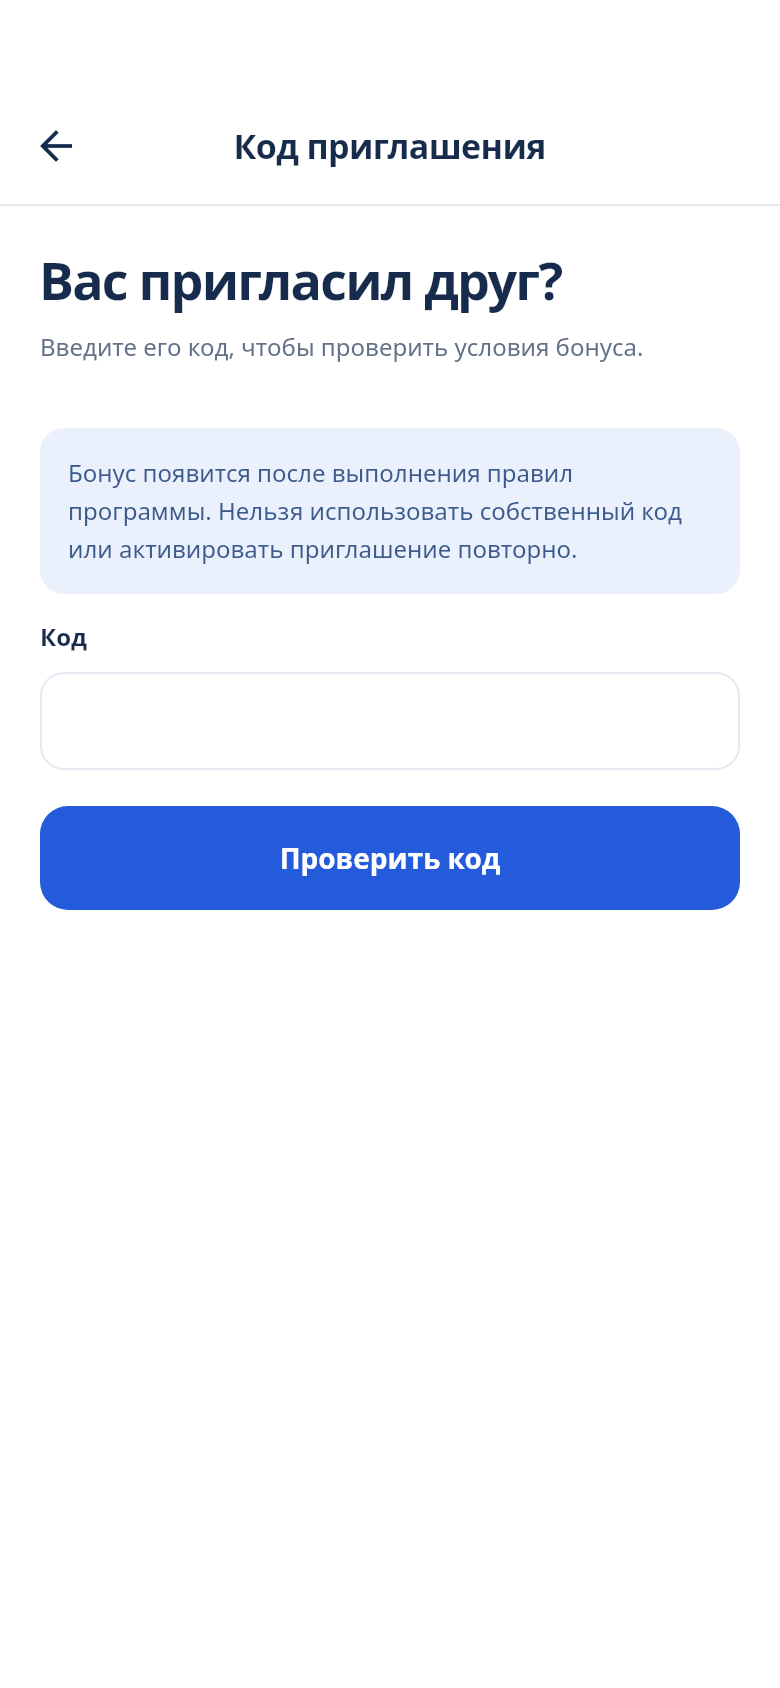
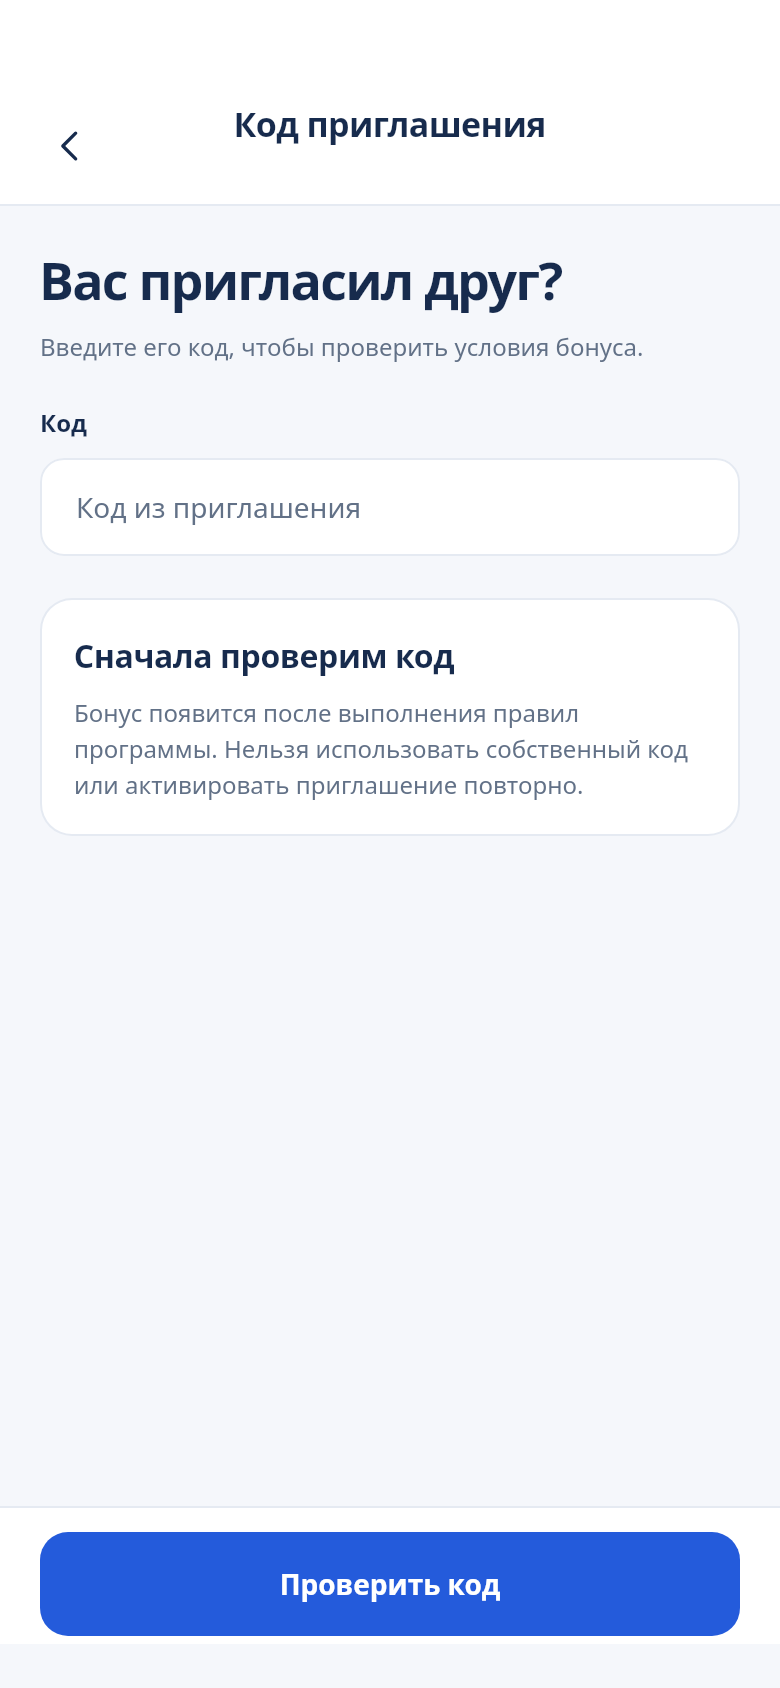
feat: align referral code entry and validate API retry flow

diff --git a/apps/mobile/test/referral_code_test.dart b/apps/mobile/test/referral_code_test.dart
@@ -1,0 +1,103 @@
+import 'dart:async';
+import 'dart:convert';
+import 'package:flutter/material.dart';
+import 'package:flutter_test/flutter_test.dart';
+import 'package:http/http.dart' as http;
+import 'package:http/testing.dart';
+import '../lib/core/api.dart';
+import '../lib/core/theme.dart';
+import '../lib/screens/referral_code.dart';
+
+class _Vault implements SessionVault {
+  Future<String?> read() async => null;
+  Future<void> write(String value) async {}
+  Future<void> clear() async {}
+}
+
+void main() {
+  testWidgets(
+      'invitation validates locally, retains code after rejection and retries once without duplicate requests',
+      (tester) async {
+    tester.view.physicalSize = const Size(390, 844);
+    tester.view.devicePixelRatio = 1;
+    addTearDown(tester.view.resetPhysicalSize);
+    addTearDown(tester.view.resetDevicePixelRatio);
+    final requests = <http.Request>[];
+    var pending = Completer<http.Response>();
+    var accepted = 0;
+    final api = JobaApi('https://isolated.example', vault: _Vault(),
+        transport: MockClient((request) {
+      requests.add(request);
+      return pending.future;
+    }));
+    api.session = {
+      'access_token': 'isolated-referral-session',
+      'user': {'id': 'isolated-user'}
+    };
+    await tester.pumpWidget(MaterialApp(
+        theme: jobaTheme(),
+        home: Builder(
+            builder: (context) => Scaffold(
+                body: TextButton(
+                    onPressed: () => Navigator.push(
+                        context,
+                        MaterialPageRoute<void>(
+                            builder: (_) => ReferralCodeScreen(
+                                api: api, onAccepted: () => accepted++))),
+                    child: const Text('Open'))))));
+    await tester.tap(find.text('Open'));
+    await tester.pumpAndSettle();
+    expect(find.text('Сначала проверим код'), findsOneWidget);
+    await tester.tap(find.text('Проверить код'));
+    await tester.pumpAndSettle();
+    expect(requests, isEmpty);
+    await tester.enterText(
+        find.byType(TextFormField), List.filled(51, 'a').join());
+    await tester.tap(find.text('Проверить код'));
+    await tester.pumpAndSettle();
+    expect(requests, isEmpty);
+    expect(find.text('Код должен содержать не больше 50 символов'),
+        findsOneWidget);
+    await tester.enterText(find.byType(TextFormField), '  invited-code  ');
+    await tester.tap(find.text('Проверить код'));
+    await tester.pump();
+    expect(requests.length, 1);
+    expect(requests.single.url.path, '/api/v1/referrals/attribute');
+    expect(jsonDecode(requests.single.body)['code'], 'invited-code');
+    expect(tester.widget<FilledButton>(find.byType(FilledButton)).onPressed,
+        isNull);
+    pending.complete(http.Response(
+        jsonEncode({
+          'error': {
+            'code': 'ATTRIBUTION_WINDOW_EXPIRED',
+            'message': 'Срок ввода кода после регистрации истёк',
+            'details': {}
+          }
+        }),
+        422,
+        headers: {'content-type': 'application/json; charset=utf-8'}));
+    await tester.pumpAndSettle();
+    expect(accepted, 0);
+    expect(
+        find.text('Срок ввода кода после регистрации истёк'), findsOneWidget);
+    expect(
+        tester
+            .widget<TextFormField>(find.byType(TextFormField))
+            .controller!
+            .text,
+        '  invited-code  ');
+    pending = Completer<http.Response>();
+    await tester.tap(find.text('Проверить код'));
+    await tester.pump();
+    expect(requests.length, 2);
+    pending.complete(http.Response(
+        jsonEncode({
+          'data': {'status': 'pending'}
+        }),
+        200));
+    await tester.pumpAndSettle();
+    expect(accepted, 1);
+    expect(find.byType(ReferralCodeScreen), findsNothing);
+    expect(tester.takeException(), isNull);
+  });
+}

diff --git a/apps/mobile/lib/core/ui_translations.dart b/apps/mobile/lib/core/ui_translations.dart
@@ -4664,4 +4664,49 @@ const uiTranslations = <String, Map<String, String>>{
   },
   "Доступна": {"kk": "Қолжетімді", "sr": "Доступна", "be": "Даступная"},
   "Недоступно": {"kk": "Қолжетімсіз", "sr": "Недоступно", "be": "Недаступна"},
+  "Код из приглашения": {
+    "kk": "Шақыру коды",
+    "sr": "Код из позивнице",
+    "be": "Код з запрашэння"
+  },
+  "Код должен содержать не больше 50 символов": {
+    "kk": "Код 50 таңбадан аспауы керек",
+    "sr": "Код може имати највише 50 знакова",
+    "be": "Код павінен змяшчаць не больш за 50 сімвалаў"
+  },
+  "Сначала проверим код": {
+    "kk": "Алдымен кодты тексереміз",
+    "sr": "Прво ћемо проверити код",
+    "be": "Спачатку праверым код"
+  },
+  "Код приглашения принят": {
+    "kk": "Шақыру коды қабылданды",
+    "sr": "Код позивнице је прихваћен",
+    "be": "Код запрашэння прыняты"
+  },
+  "Срок ввода кода после регистрации истёк": {
+    "kk": "Тіркелгеннен кейін код енгізу мерзімі аяқталды",
+    "sr": "Рок за унос кода након регистрације је истекао",
+    "be": "Тэрмін уводу кода пасля рэгістрацыі скончыўся"
+  },
+  "Пригласивший уже закреплён": {
+    "kk": "Шақырушы бұрын белгіленген",
+    "sr": "Особа која вас је позвала већ је забележена",
+    "be": "Той, хто запрасіў, ужо замацаваны"
+  },
+  "Бюджет новых приглашений исчерпан": {
+    "kk": "Жаңа шақырулар бюджеті таусылды",
+    "sr": "Буџет за нове позивнице је исцрпљен",
+    "be": "Бюджэт новых запрашэнняў вычарпаны"
+  },
+  "Активной реферальной кампании нет": {
+    "kk": "Белсенді шақыру науқаны жоқ",
+    "sr": "Нема активне кампање позивања",
+    "be": "Няма актыўнай рэферальнай кампаніі"
+  },
+  "Код недоступен": {
+    "kk": "Код қолжетімсіз",
+    "sr": "Код није доступан",
+    "be": "Код недаступны"
+  },
 };

diff --git a/apps/mobile/lib/screens/referral_code.dart b/apps/mobile/lib/screens/referral_code.dart
@@ -1,0 +1,54 @@
+import 'package:flutter/material.dart';
+import '../core/api.dart';
+import '../core/l10n.dart';
+import '../core/widgets.dart';
+import '../core/theme.dart';
+import '../core/design_icons.dart';
+
+class ReferralCodeScreen extends StatelessWidget {
+  final JobaApi api;
+  final VoidCallback onAccepted;
+  const ReferralCodeScreen(
+      {required this.api, required this.onAccepted, super.key});
+  @override
+  Widget build(BuildContext context) => Scaffold(
+        backgroundColor: canvas,
+        appBar: AppBar(
+            leadingWidth: 72,
+            leading: IconButton(
+                onPressed: () => Navigator.pop(context),
+                icon: const JobaIcon('back')),
+            title: Transform.translate(
+                offset: const Offset(0, -11),
+                child: const UiText('Код приглашения'))),
+        body: ActionForm(
+          stickySubmit: true,
+          fields: [
+            InputSpec('code', 'Код',
+                minHeight: 52,
+                hint: 'Код из приглашения',
+                validate: (value) => value.trim().length > 50
+                    ? 'Код должен содержать не больше 50 символов'
+                    : null)
+          ],
+          before: const [
+            UiHeading('Вас пригласил друг?',
+                'Введите его код, чтобы проверить условия бонуса.')
+          ],
+          afterFields: [
+            DataCard('Сначала проверим код',
+                translateTitle: true,
+                subtitle: localize(context,
+                    'Бонус появится после выполнения правил программы. Нельзя использовать собственный код или активировать приглашение повторно.'))
+          ],
+          button: 'Проверить код',
+          submit: (values) async {
+            await api.request('/referrals/attribute',
+                method: 'POST', body: {'code': values['code']!.trim()});
+            if (!context.mounted) return;
+            Navigator.pop(context);
+            onAccepted();
+          },
+        ),
+      );
+}

diff --git a/apps/mobile/lib/screens/marketplace.dart b/apps/mobile/lib/screens/marketplace.dart
@@ -1,3 +1,4 @@
+import 'referral_code.dart';
 import 'referral_reward_card.dart';
 import 'referral_hero_decoration.dart';
 import 'referral_terms.dart';
@@ -4620,26 +4621,13 @@ class _MarketplaceState extends State<Marketplace> with WidgetsBindingObserver {
                   })));
   void enterReferralCode() => Navigator.push(
       context,
-      MaterialPageRoute<void>(
-          builder: (c) => Scaffold(
-              appBar: AppBar(title: const UiText('Код приглашения')),
-              body: ActionForm(
-                  fields: const [
-                    InputSpec('code', 'Код')
-                  ],
-                  before: const [
-                    UiHeading('Вас пригласил друг?',
-                        'Введите его код, чтобы проверить условия бонуса.'),
-                    Notice(
-                        'Бонус появится после выполнения правил программы. Нельзя использовать собственный код или активировать приглашение повторно.')
-                  ],
-                  button: 'Проверить код',
-                  submit: (values) async {
-                    await api.request('/referrals/attribute',
-                        method: 'POST', body: {'code': values['code']?.trim()});
-                    if (c.mounted) Navigator.pop(c);
-                    if (mounted) setState(() => revision++);
-                  }))));
+      MaterialPageRoute<void>(builder: (c) => ReferralCodeScreen(
+          api: api, onAccepted: () {
+            if (mounted) {
+              setState(() => revision++);
+              success('Код приглашения принят');
+            }
+          })));
   Widget referralRulesScreen() => page(
       'Условия бонусов',
       loaded(

diff --git a/apps/mobile/lib/core/l10n.dart b/apps/mobile/lib/core/l10n.dart
@@ -50,6 +50,11 @@ String errorText(BuildContext context, Object error) {
         'PDF_SANITIZER_UNAVAILABLE':
             'Проверка файлов недоступна. Попробуйте позже.',
         'PROVIDER_UNAVAILABLE': 'Сервис ещё не подключён.',
+        'ATTRIBUTION_WINDOW_EXPIRED': 'Срок ввода кода после регистрации истёк',
+        'ATTRIBUTION_ALREADY_SET': 'Пригласивший уже закреплён',
+        'REFERRAL_BUDGET_EXHAUSTED': 'Бюджет новых приглашений исчерпан',
+        'CAMPAIGN_UNAVAILABLE': 'Активной реферальной кампании нет',
+        'REFERRAL_INELIGIBLE': 'Код недоступен',
         'POLICY_REJECTED': 'Действие не разрешено действующими правилами.',
       }[error.code] ??
       'Не удалось выполнить запрос';

diff --git a/docs/mobile-referral-terms-update.md b/docs/mobile-referral-terms-update.md
@@ -39,3 +39,13 @@
 Добавлены widget-сценарии: истечение на открытом экране, проверка при resumed, блокировка повторной отправки, отказ и повторная активация, использованная награда и длинный снимок на ширине 320 с масштабом текста 1.5. Добавлены переводы статусов на существующие языки kk/sr/be. Визуальная приёмка всех состояний остаётся открытой.
 
 Проверки: полный мобильный набор — 87 успешно, 2 пропущены. Итоговые 3 сценария карточки с рабочими Noto/jobaTheme и сохранением снимков прошли; анализ — 0 замечаний. Диагностические снимки изолированных карточек: `design/review/mobile/reward-states/{available,expired,redeemed,narrow-long}.png`. Это дополнительные свидетельства, не новые принятые кадры реестра 187. На сервер не развёрнуто.
+
+## Ввод кода S37.redeem
+
+Выделен `ReferralCodeScreen`: заголовок по S37, поле кода, отдельная карточка «Сначала проверим код» под полем, закреплённая нижняя кнопка. Поле сохраняется после отказа API; проверяются обязательность и максимум 50 символов, наружные пробелы удаляются перед отправкой. Во время запроса повторная отправка блокируется штатным ActionForm. Подтверждённая атрибуция возвращает к списку, инициирует обновление и показывает уведомление о принятом коде, без заявления о выданном бонусе.
+
+Добавлены локализованные объяснения кодов API: истёкшее окно, закреплённый пригласивший, исчерпанный бюджет, отсутствие кампании, недоступный код. Новые подписи и сообщения переведены на существующие kk/sr/be. DEMO placeholder/кнопка заменены рабочими подписями.
+
+Widget-сценарий проходит через JobaApi с изолированным HTTP transport: пустое/длинное значение не отправляется, пробелы обрезаются, запрос блокирует кнопку, отказ сохраняет поле и не вызывает onAccepted, повтор после отказа возвращает только после успешного ответа.
+
+Итоговые проверки ввода: анализ — 0 замечаний; полный набор — 88 успешно, 2 пропущены. После уточнения высоты поля до 52 повторно прошёл сценарий ввода/отказа/повтора и съёмка 115 кадров. S37.redeem обновлён в реестре, визуальная приёмка pending. На сервер не развёрнуто.
